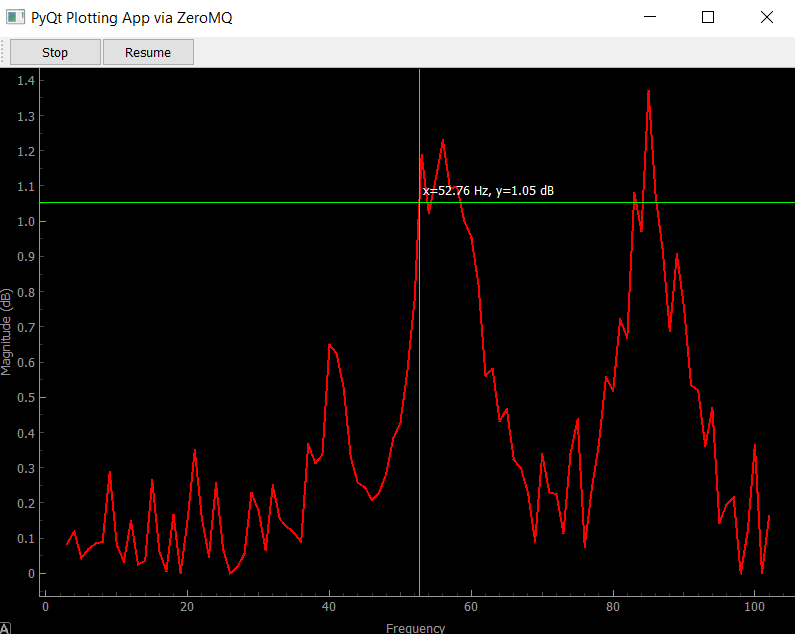
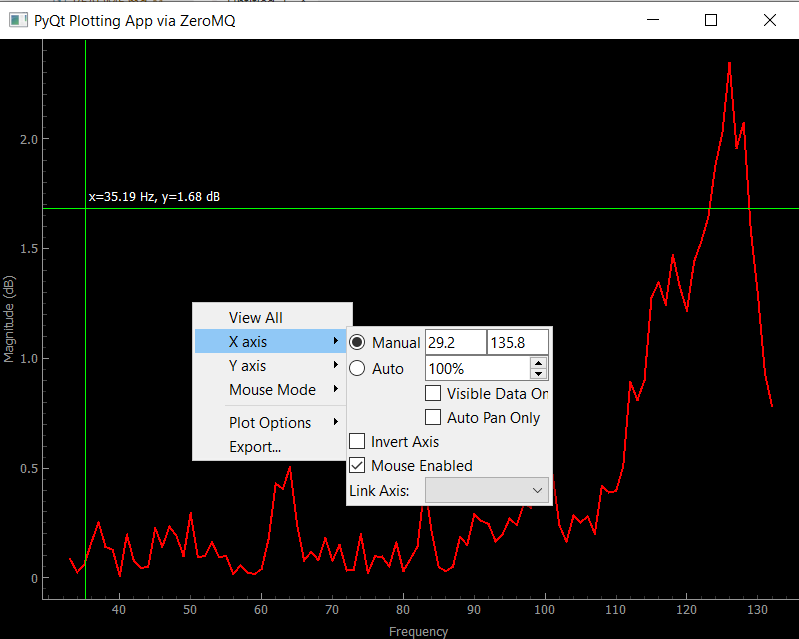
Update PyQt ZeroMQ example

diff --git a/pyqtgraph-zmq/src/main.py b/pyqtgraph-zmq/src/main.py
@@ -27,12 +27,6 @@ class MainWindow(QtWidgets.QMainWindow):
         self.worker_thread = Thread(target=self.worker.generate_data)
         self.worker_thread.start()
 
-        self.timer = QtCore.QTimer()
-        self.timer.timeout.connect(self.update_plot)
-        self.timer.start(1000)  # Update plot every second
-
-        self.init_ui()
-
         # Add hover lines and label
         self.vline = InfiniteLine(angle=90, movable=False, pen=mkPen('g', width=1))
         self.hline = InfiniteLine(angle=0, movable=False, pen=mkPen('g', width=1))
@@ -45,16 +39,6 @@ class MainWindow(QtWidgets.QMainWindow):
         self.plot_widget.setLabel('left', 'Magnitude', units='dB')
         self.plot_widget.setLabel('bottom', 'Frequency')
 
-    def init_ui(self):
-        toolbar = self.addToolBar("Control")
-        stop_button = QtWidgets.QPushButton("Stop")
-        stop_button.clicked.connect(self.stop_plotting)
-        toolbar.addWidget(stop_button)
-
-        resume_button = QtWidgets.QPushButton("Resume")
-        resume_button.clicked.connect(self.resume_plotting)
-        toolbar.addWidget(resume_button)
-
     def update_plot(self):
         try:
             while True:
@@ -65,19 +49,6 @@ class MainWindow(QtWidgets.QMainWindow):
                 self.plot_widget.autoRange()  # Automatically rescale the axes
         except zmq.Again:
             pass
-
-    def stop_plotting(self):
-        self.timer.stop()
-
-    def resume_plotting(self):
-        self.timer.start(1000)
-
-    def closeEvent(self, event):
-        self.stop_plotting()
-        self.worker.stop()
-        self.worker_thread.join()
-        self.context.term()
-        event.accept()
 
     def on_mouse_move(self, pos):
         mouse_point = self.plot_widget.plotItem.vb.mapSceneToView(pos)
@@ -92,6 +63,11 @@ def main():
     app = QtWidgets.QApplication(sys.argv)
     window = MainWindow()
     window.show()
+
+    timer = QtCore.QTimer()
+    timer.timeout.connect(window.update_plot)
+    timer.start(1000)  # Update plot every second
+
     sys.exit(app.exec_())
 
 if __name__ == "__main__":

diff --git a/README.md b/README.md
@@ -3,7 +3,4 @@
 
 ![PyQt Plotting App via ZeroMQ](assets/pyqtgraph-zmq.png)
 
-
 - [PyQt Plotting App via QProcess](pyqtgraph-qprocess)
-
-![PyQt Plotting App via QProcess](assets/pyqtgraph-qprocess.png)
